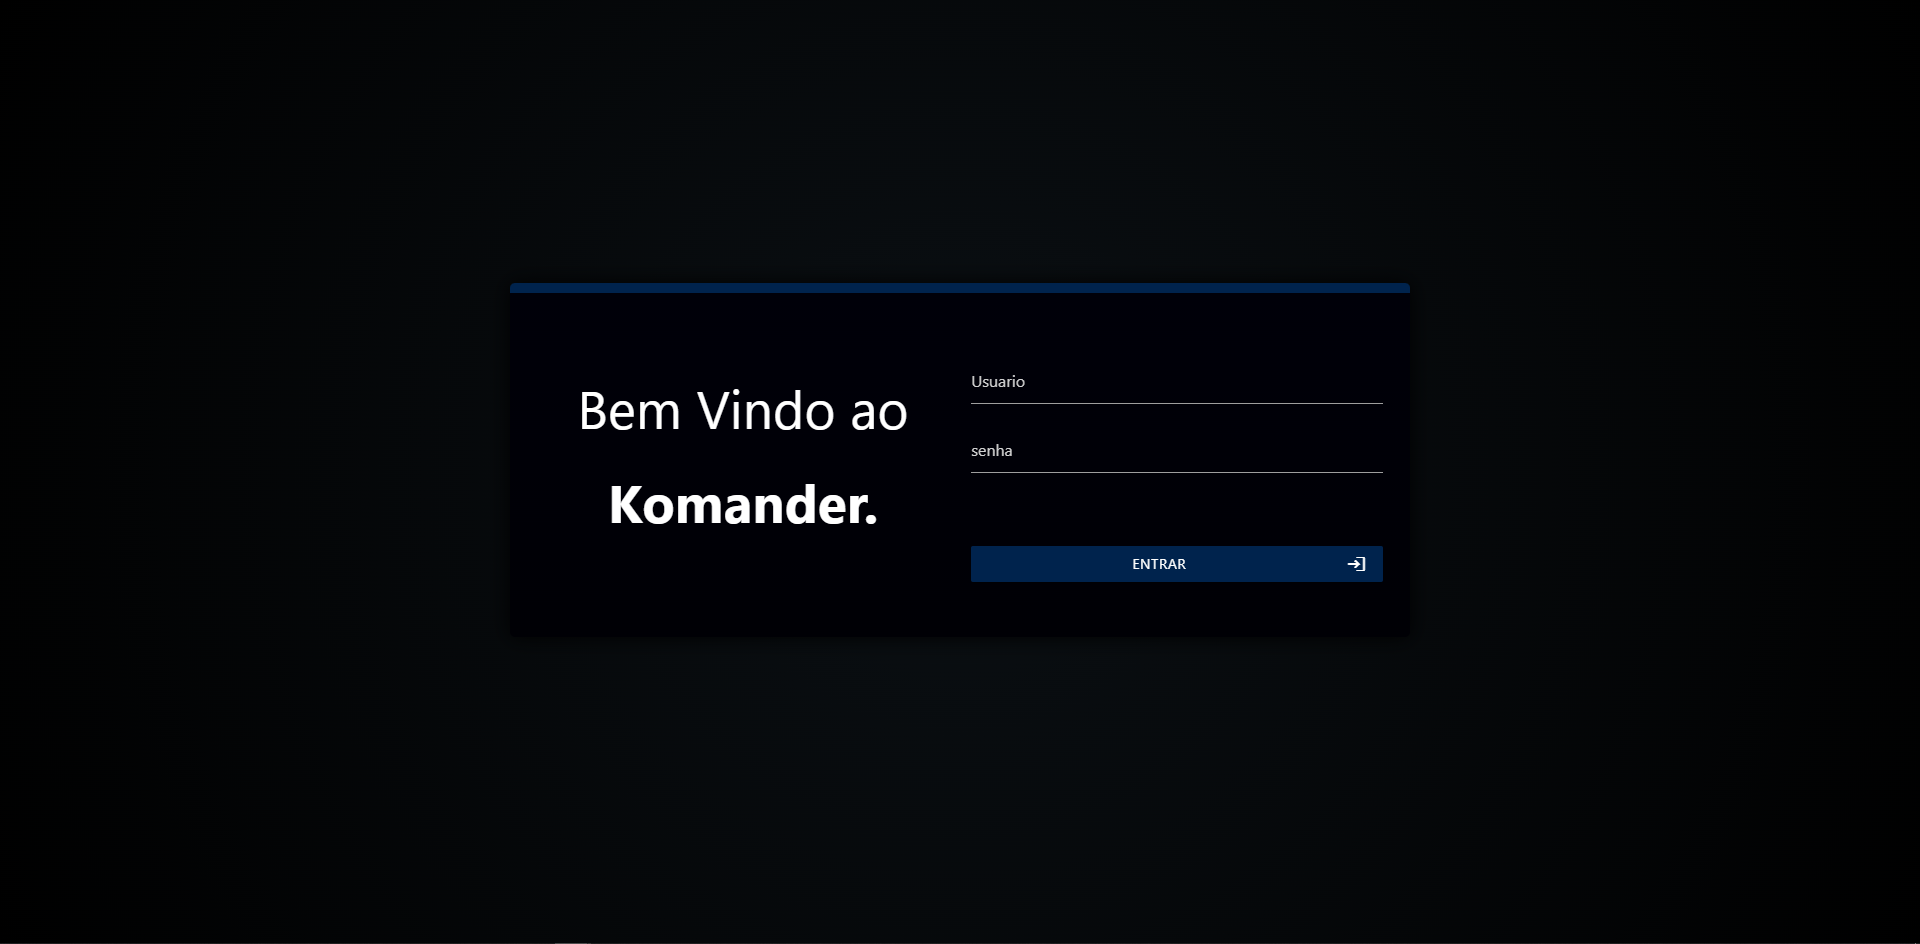
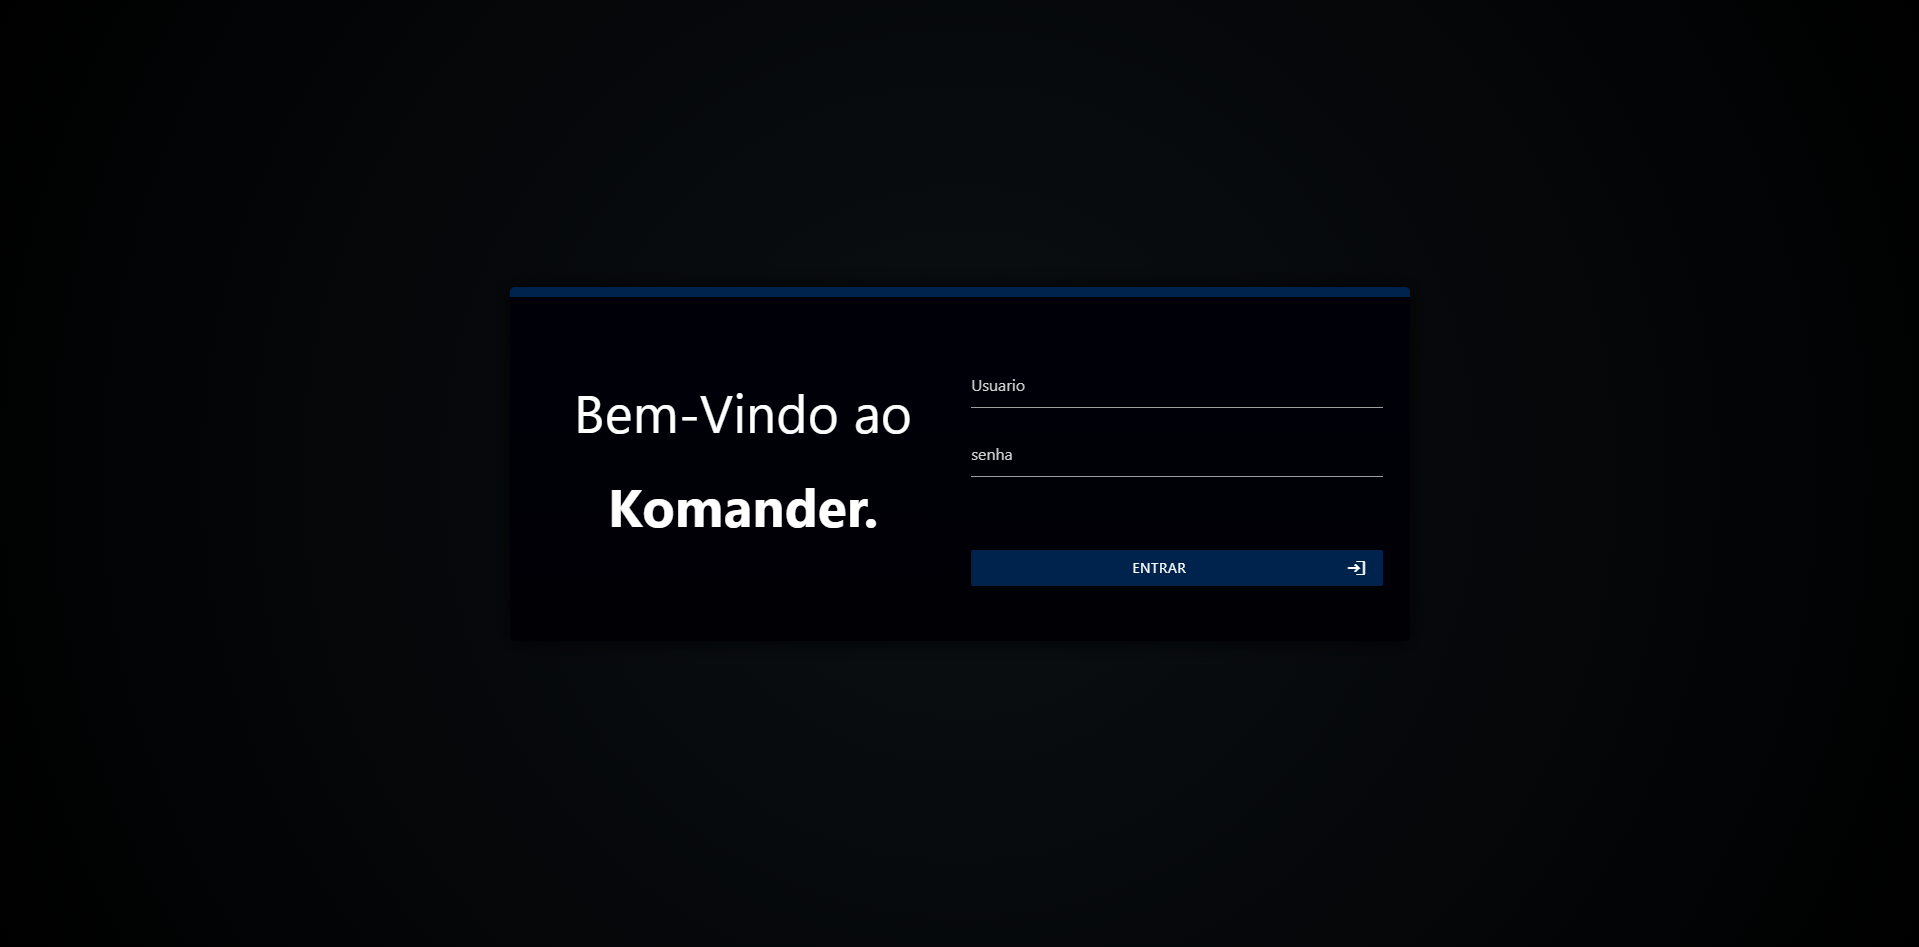
signin

diff --git a/components/SiginCard.tsx b/components/SiginCard.tsx
@@ -4,7 +4,7 @@ export default function SigninCard() {
     <div className="row box">
         <div className="col s12 center-align ">
           <div className="col l6 m6 s6">
-            <h2>Bem Vindo ao</h2>
+            <h2>Bem-Vindo ao</h2>
             <h2><b>Komander.</b></h2>
             
           </div>
